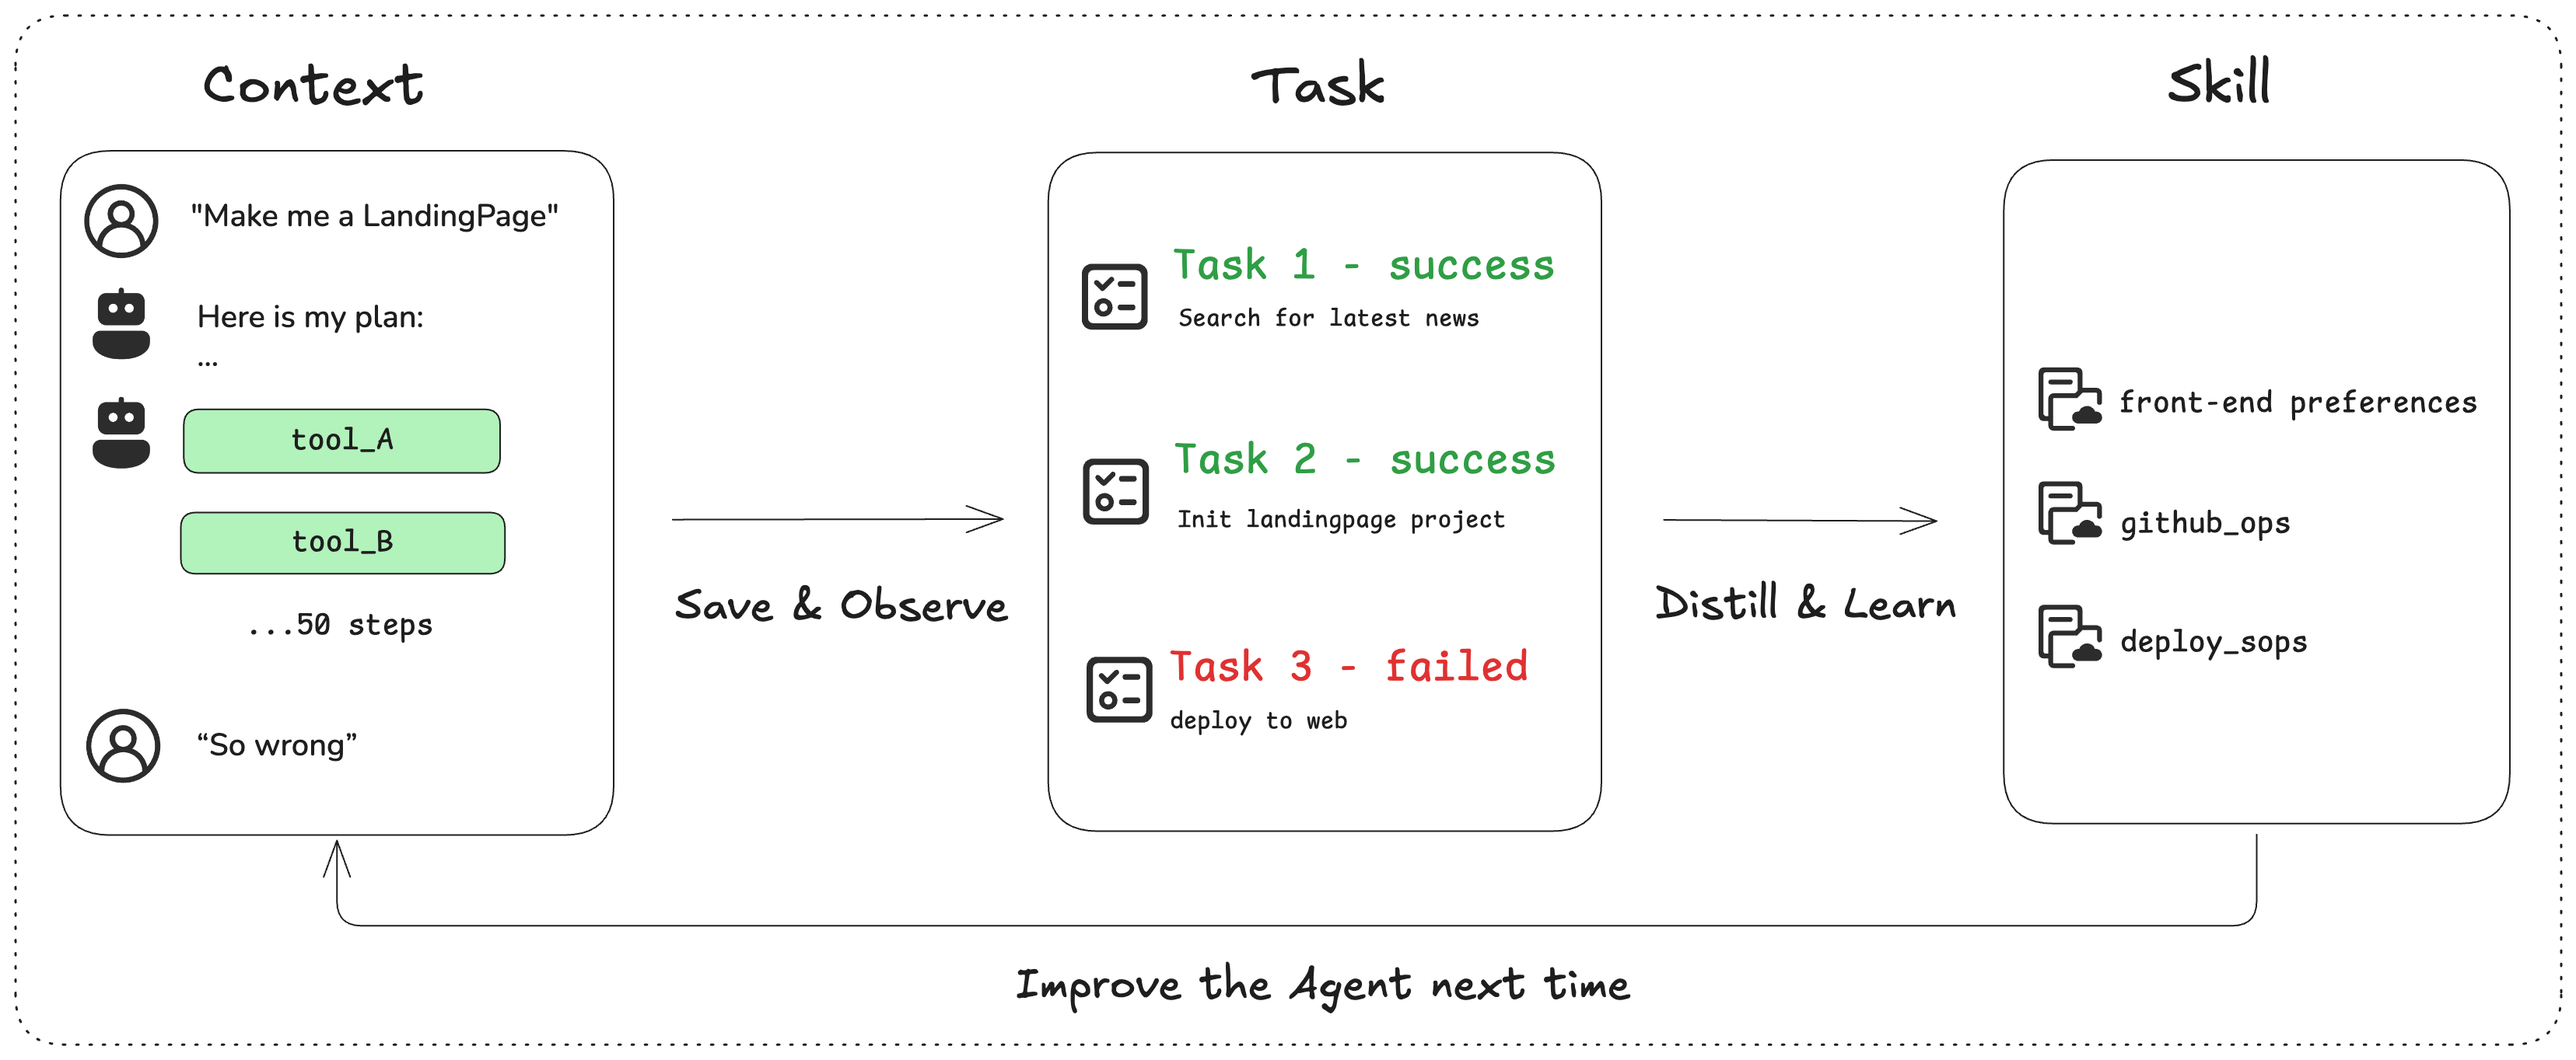
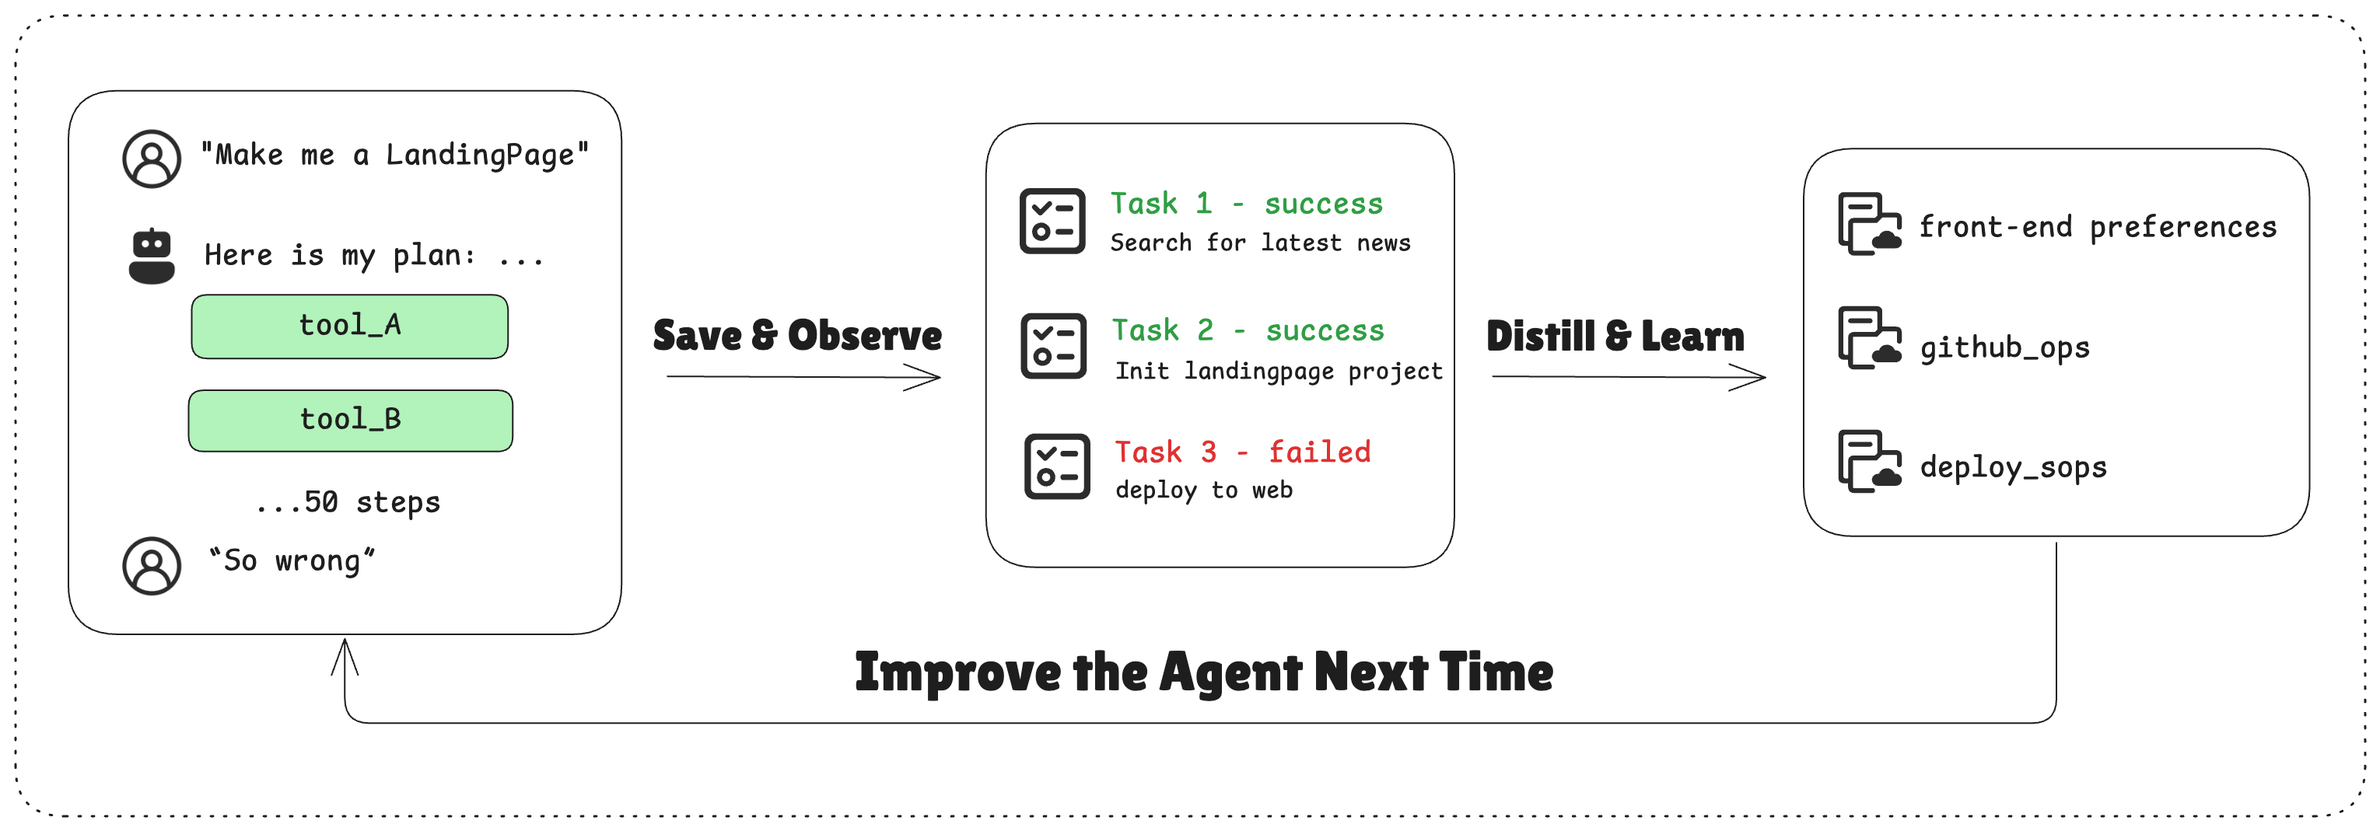
docs: update dataflow

diff --git a/README.md b/README.md
@@ -47,7 +47,7 @@ Acontext is a context data platform that:
     <picture>
       <img alt="Acontext Learning" src="./assets/acontext_dataflow.png" width="100%">
     </picture>
-  <p>Store Contexts, Observe Tasks, then Learn Skills</p>
+  <p>Store, Observe and Learn</p>
 </div>
 
 
